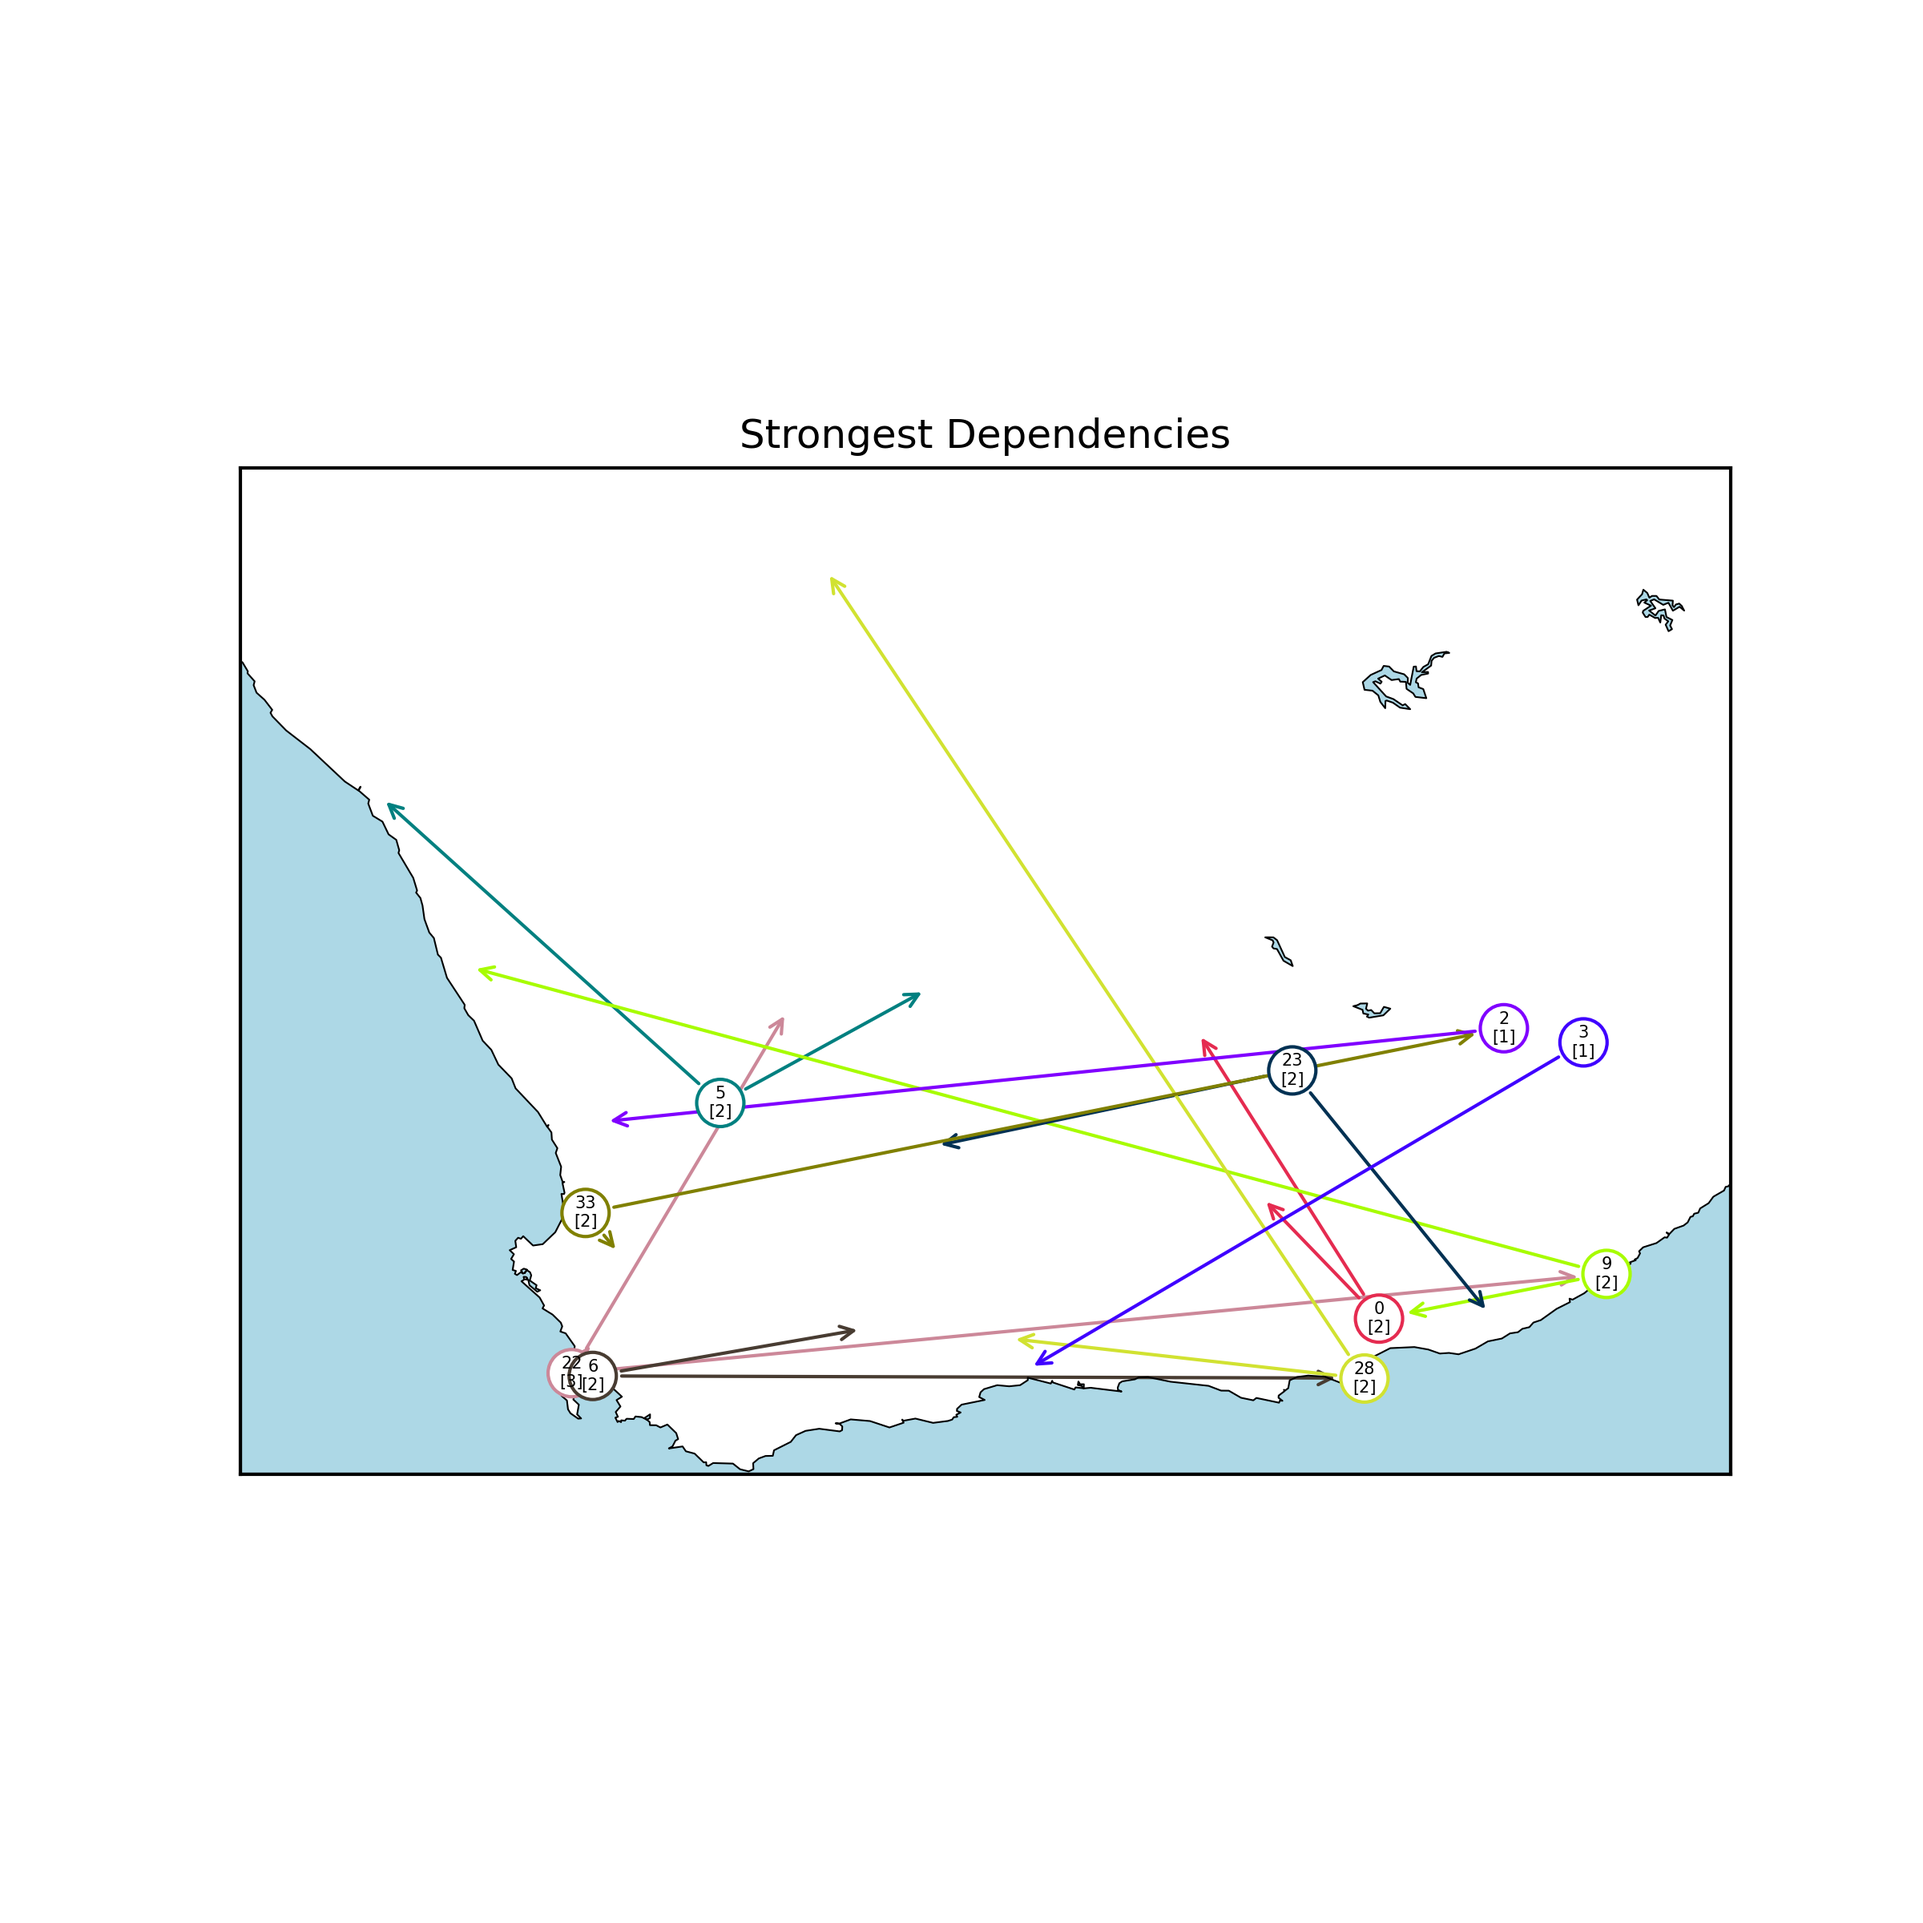
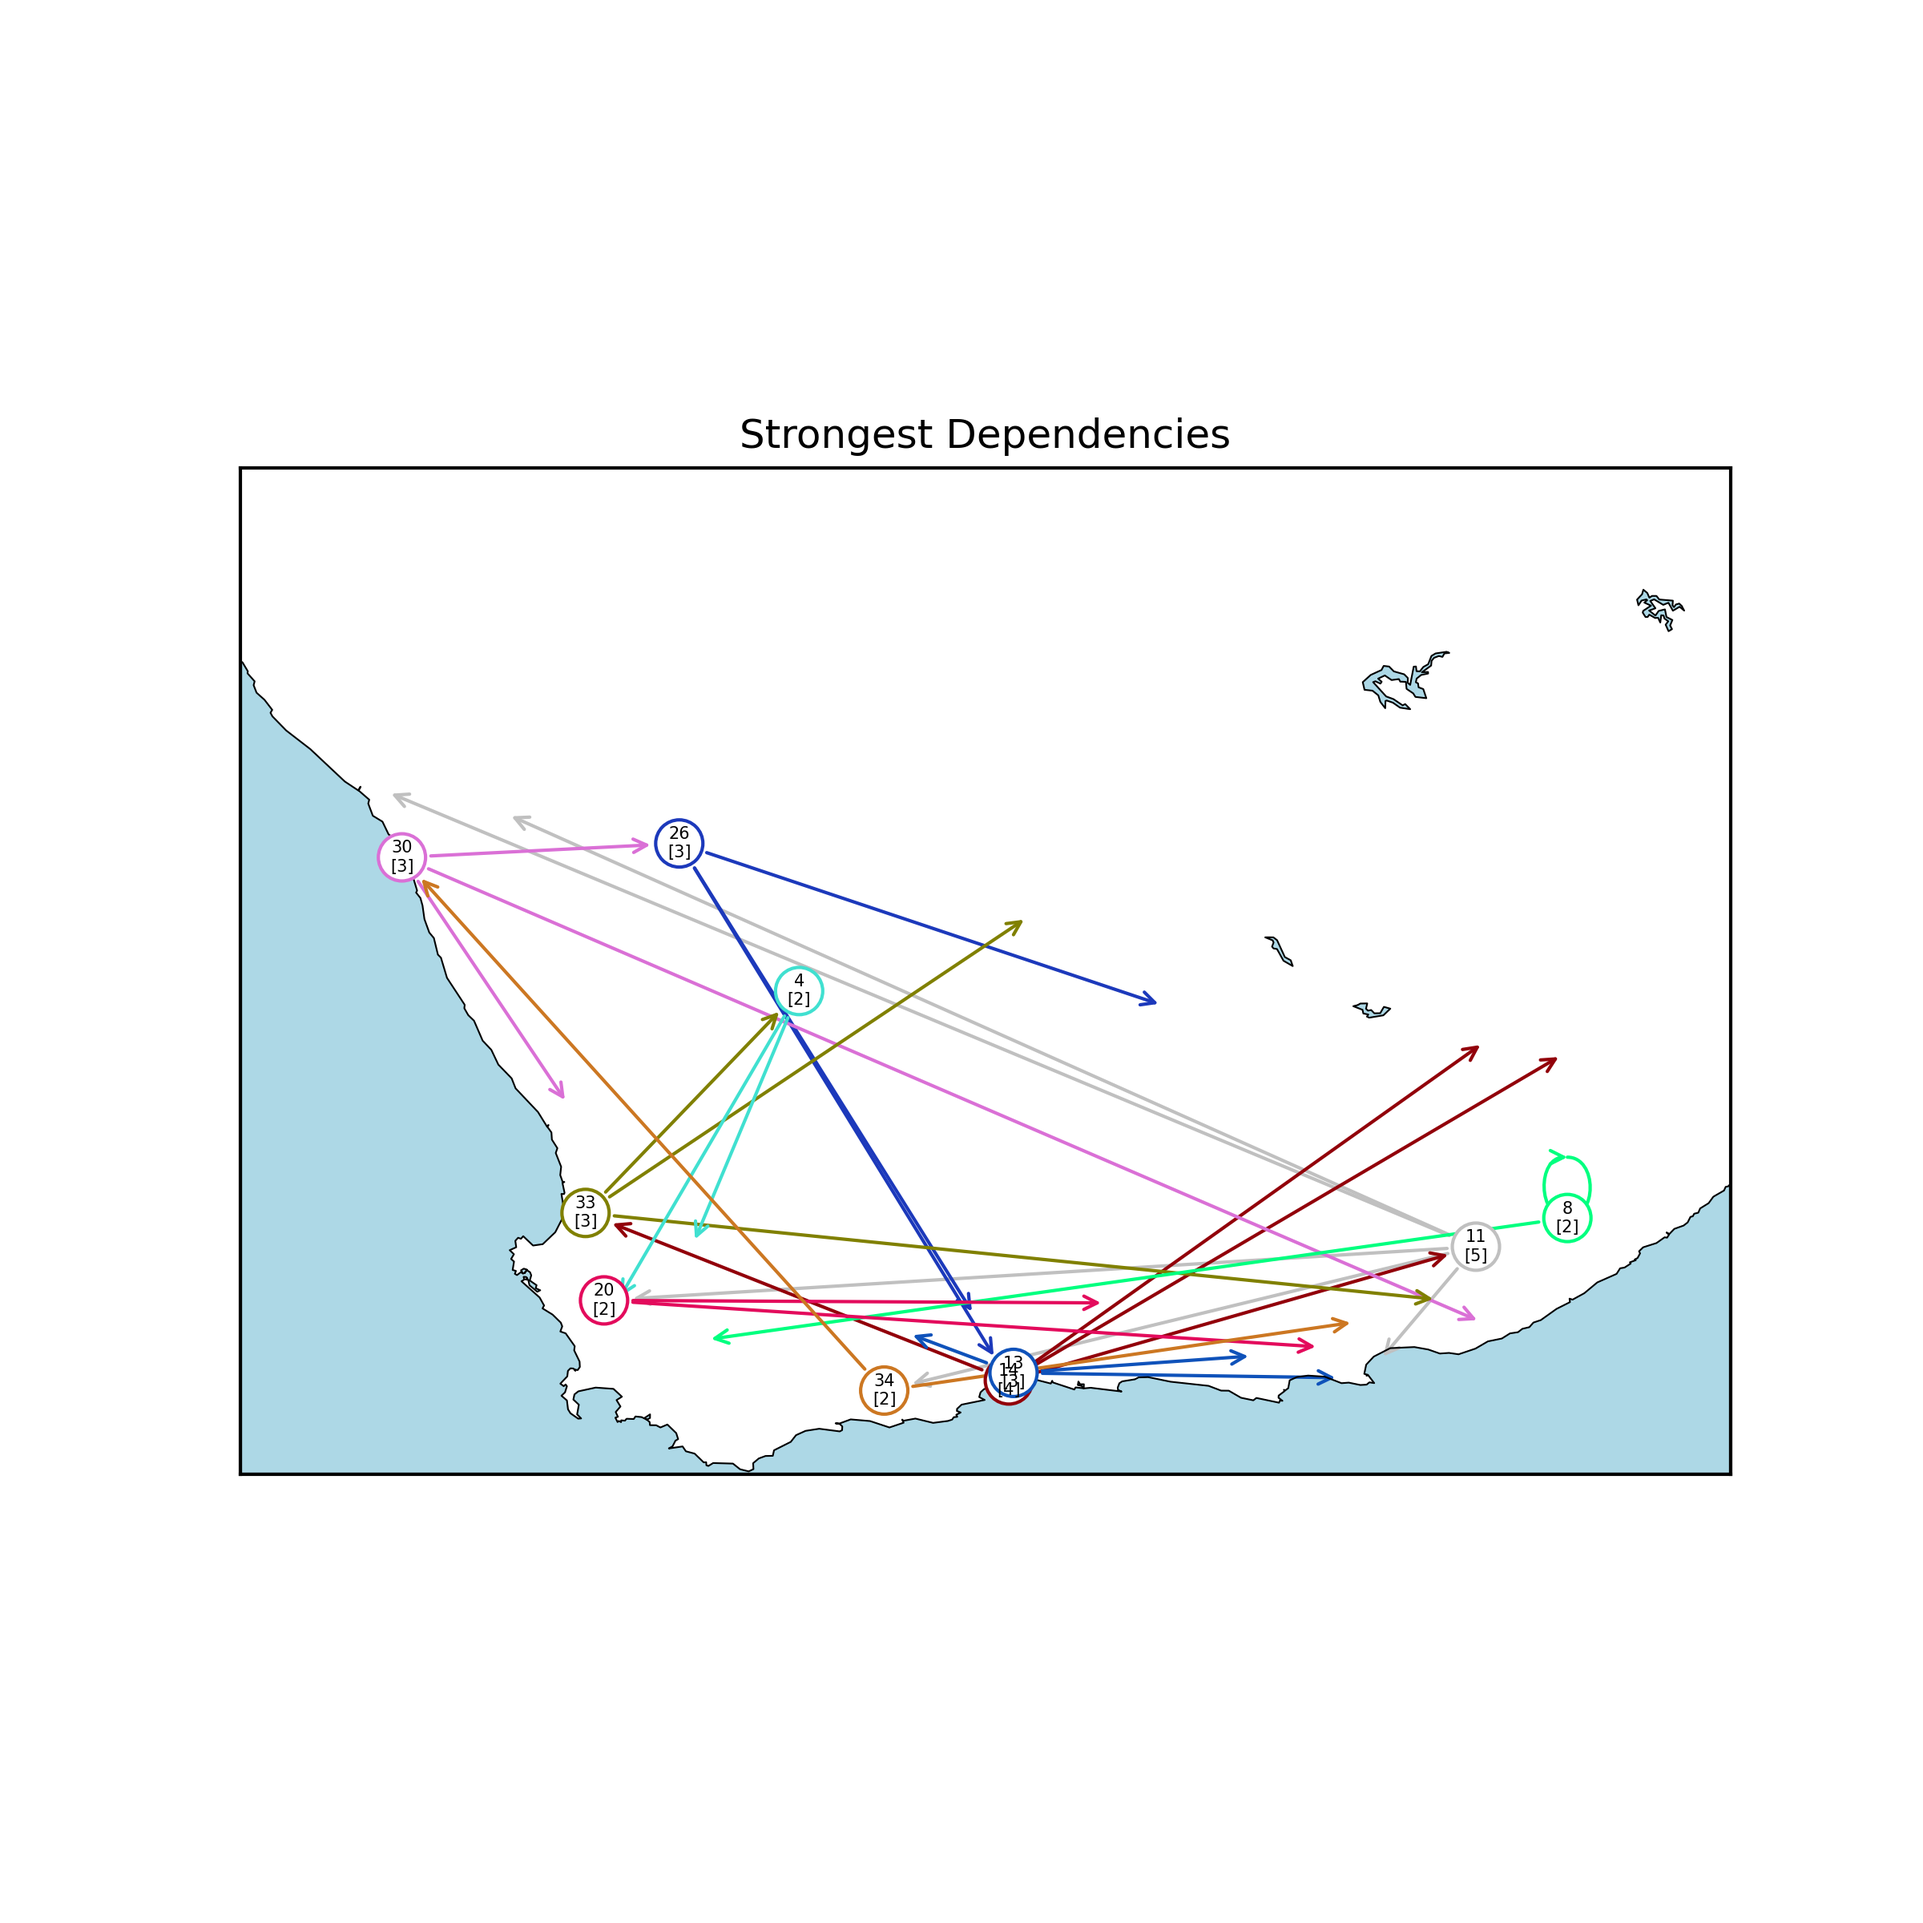
fixed logic of geographic vis

Changed region(s): [[0.2812, 0.4688, 0.8438, 0.75], [0.1875, 0.4062, 0.375, 0.5625], [0.5, 0.4688, 0.5312, 0.5]]

diff --git a/Visualisations/visualise.py b/Visualisations/visualise.py
@@ -7,6 +7,25 @@ import seaborn as sns
 import csv
 import os
 
+# def create_graph(adj_matrix, config):
+#     G = nx.DiGraph()
+
+#     locations_path = config['locations_path']['default'] #'DataNew/Locations/Locations.csv'
+#     with open(locations_path, 'r') as file:
+#         reader = csv.reader(file)
+#         next(reader)  # Skip the header row
+#         for row in reader:
+#             number, station_name, lat, lon, province = row
+#             G.add_node(number, pos=(float(lon), float(lat)), province=province)
+
+#     for i in range(adj_matrix.shape[0]):
+#         strongest_influence_indices = np.argsort(adj_matrix[:, i])[-1:]  # Enter number of influential stations
+#         for j in strongest_influence_indices:
+#             if adj_matrix[j, i] > 0:
+#                 G.add_edge(list(G.nodes())[j], list(G.nodes())[i])
+
+#     return G
+
 def create_graph(adj_matrix, config):
     G = nx.DiGraph()
 
@@ -18,13 +37,15 @@ def create_graph(adj_matrix, config):
             number, station_name, lat, lon, province = row
             G.add_node(number, pos=(float(lon), float(lat)), province=province)
 
-    for i in range(adj_matrix.shape[0]):
-        strongest_influence_indices = np.argsort(adj_matrix[:, i])[-1:]  # Enter number of influential stations
+    for i in range(adj_matrix.shape[1]):  # Iterate over the columns instead of rows
+        strongest_influence_indices = np.argsort(adj_matrix[i, :])[-1:]  # Enter number of influential stations
         for j in strongest_influence_indices:
-            if adj_matrix[j, i] > 0:
-                G.add_edge(list(G.nodes())[j], list(G.nodes())[i])
+            if adj_matrix[i, j] > 0:  # Use adj_matrix[i, j] instead of adj_matrix[j, i]
+                G.add_edge(list(G.nodes())[j], list(G.nodes())[i])  # Swap the order of nodes
 
     return G
+
+
 
 
 def plot_map(adj_matrix, config, split):
